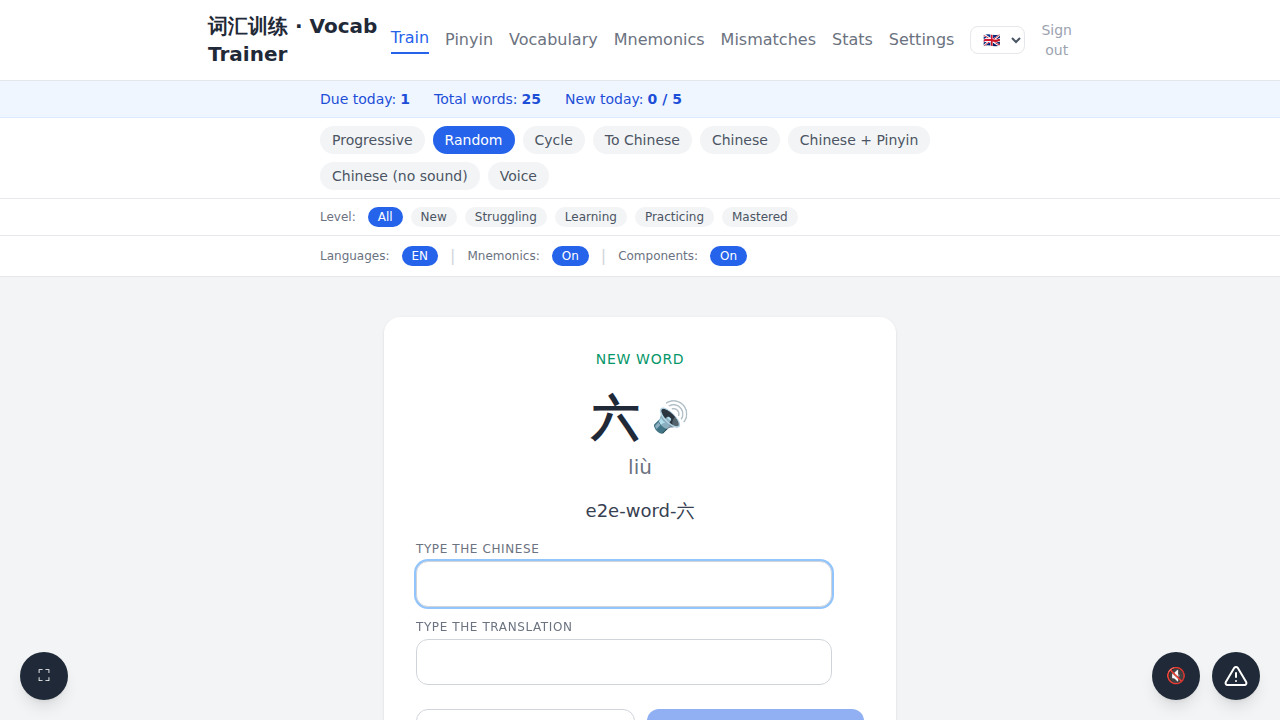
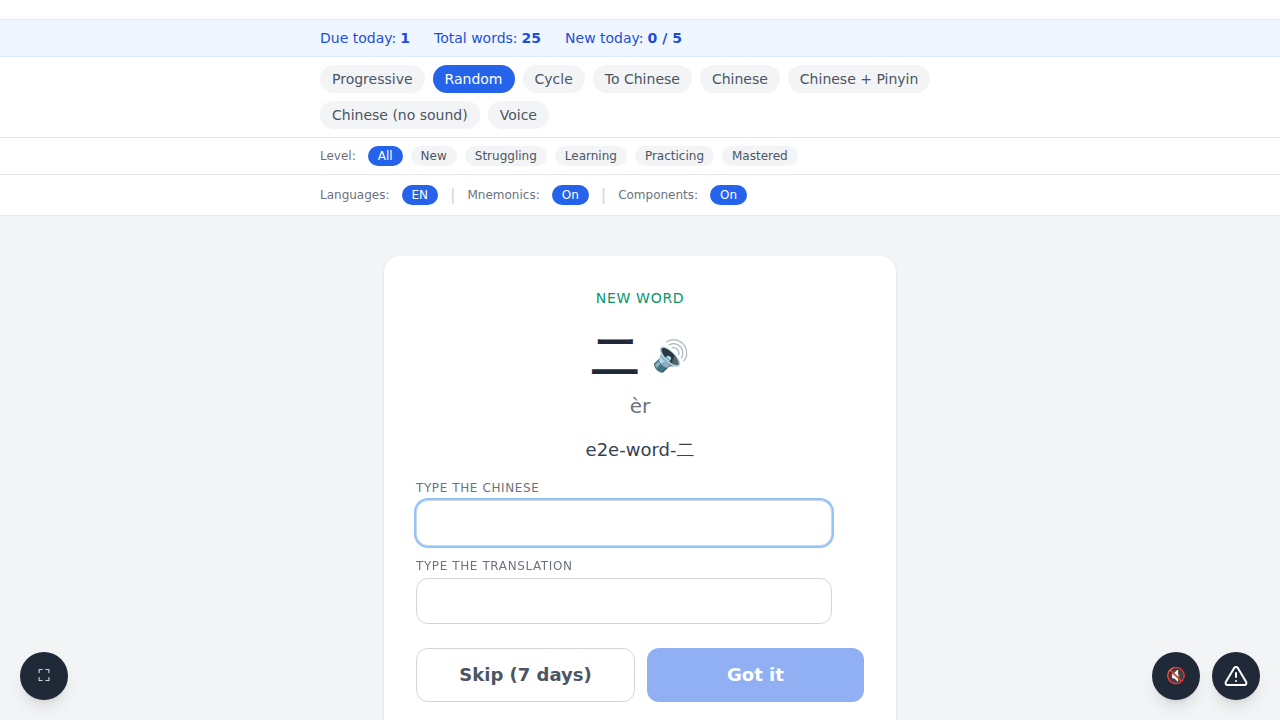
Fix new-word cooldown stalling brand-new accounts
The daily new-word cooldown (default 1 minute) blocked a fresh account
from being offered its second word right after learning the first,
with no way forward: the "learn more" advance buttons require 10+
already-seen words to ever enable, and the "Introduce new words"
button was only wired up on one of the two success-screen render
paths in train-card.js, so it stayed hidden on the path taken when
/api/quiz/next 404s.

- Skip the cooldown baseline while a user has fewer than 20 introduced
  words; it exists to pace an established learner and only stalls
  onboarding.
- Extract the success-screen advance/introduce-new-word button state
  into successAdvanceState() and use it on both render paths so they
  can't drift out of sync again.

diff --git a/e2e/onboarding.spec.js b/e2e/onboarding.spec.js
@@ -110,4 +110,74 @@ test.describe('One-button onboarding', () => {
     expect(stats.due_today).toBeLessThanOrEqual(stats.max_new_per_day);
     expect(stats.due_today).toBeLessThan(20);
   });
+
+  // Regression test for a reported bug: a brand-new account graduates its
+  // very first word, then hits a dead end — the daily-new-word cooldown
+  // (default 1 minute) blocks the next new word, the "learn more" advance
+  // buttons stay disabled (they need 10+ already-seen words to ever enable),
+  // and the "Introduce new words" button wasn't wired up on the code path
+  // that renders after a failed /api/quiz/next fetch. New learners (few
+  // introduced words) must not be cooldown-gated, and even if they were,
+  // the success screen must always offer *some* way to keep going.
+  test('a brand-new account can keep learning right after graduating its first word', async ({ page }) => {
+    await page.route('https://api.pwnedpasswords.com/**', route => {
+      route.fulfill({ status: 200, body: '' });
+    });
+    const email = `e2e-onboard-cooldown-${Date.now()}-${Math.floor(Math.random() * 1e6)}@test.local`;
+    await page.goto('/#register');
+    await page.locator('#reg-email').fill(email);
+    await page.locator('#reg-password').fill(PASSWORD);
+    await page.locator('#reg-confirm').fill(PASSWORD);
+    await page.locator('#register-btn').click();
+    await expect(page).toHaveURL('/train', { timeout: 10_000 });
+
+    const word1Res = await page.request.post('/api/words', {
+      data: { zh_text: '我', pinyin: 'wǒ', translations: { en: ['I'] }, tags: [], start_training: true },
+    });
+    expect(word1Res.ok()).toBe(true);
+    const word2Res = await page.request.post('/api/words', {
+      data: { zh_text: '你', pinyin: 'nǐ', translations: { en: ['you'] }, tags: [], start_training: false },
+    });
+    expect(word2Res.ok()).toBe(true);
+
+    await page.request.patch('/api/training-filters', {
+      data: { mode: 'zh_to_transl', langs: ['en'], bucket: '', mnemonics: true, components: true, tags: [] },
+    });
+    await page.addInitScript(() => {
+      localStorage.setItem('quizMode', 'zh_to_transl');
+      localStorage.setItem('quizLangs', JSON.stringify(['en']));
+    });
+
+    await page.goto('/train');
+
+    // Wait for whichever of the due-word card or the new-word screen the app
+    // lands on next (loadNextCard() is async after each transition).
+    async function waitForCardOrNewWord() {
+      await page.waitForFunction(() => {
+        const card = document.getElementById('card-area');
+        const nw = document.getElementById('new-word-area');
+        return (card && !card.classList.contains('hidden')) || (nw && !nw.classList.contains('hidden'));
+      }, { timeout: 12_000 });
+    }
+
+    // Answer the first (already-acknowledged) word correctly, repeating up to
+    // 3 times (as it takes to graduate it out of today's queue per
+    // session-end.spec.js) or until the second, never-seen word is offered —
+    // whichever the SM2 due-date progression reaches first.
+    await waitForCardOrNewWord();
+    for (let i = 0; i < 3 && !(await page.locator('#new-word-area').isVisible()); i++) {
+      await expect(page.locator('#card-area')).toBeVisible();
+      await page.locator('#answer-input').fill('I');
+      await page.locator('#answer-form button[type="submit"]').click();
+      await expect(page.locator('#result-icon')).toHaveText('✓ Correct!', { timeout: 8_000 });
+      await page.locator('#next-btn').click();
+      await waitForCardOrNewWord();
+    }
+
+    // The second, never-seen word must be offered — not a dead-end success
+    // screen with every button disabled.
+    await expect(page.locator('#new-word-area')).toBeVisible({ timeout: 12_000 });
+    await expect(page.locator('#new-word-zh')).toHaveText('你');
+    await captureForPR(page, 'onboarding-second-word-after-first-graduation');
+  });
 });

diff --git a/service/frontend/train-stats.test.js b/service/frontend/train-stats.test.js
@@ -45,6 +45,41 @@ describe('dueDisplayCount', () => {
   });
 });
 
+// ── Success-screen advance/introduce-new-word button state ────────────────
+// Mirrors successAdvanceState in train-stats.js. Both success-screen render
+// paths in train-card.js (the up-front due_today===0 branch, and the
+// "no words available" 404-fallback branch) must derive introduce-new-btn
+// visibility from this single function so they can't drift apart — a
+// mismatch here previously left users with no clickable button once their
+// vocabulary was too small for the 10/20/30 advance buttons to ever enable.
+
+function successAdvanceState(stats) {
+  const allAdvanceDisabled = (stats?.available_to_advance || 0) < 10;
+  const hasUnseen = (stats?.new_available || 0) > 0;
+  return { allAdvanceDisabled, showIntroduceNew: allAdvanceDisabled && hasUnseen };
+}
+
+describe('successAdvanceState', () => {
+  it('shows introduce-new when advance buttons are all disabled and a new word is available', () => {
+    const stats = { available_to_advance: 1, new_available: 5 };
+    expect(successAdvanceState(stats)).toEqual({ allAdvanceDisabled: true, showIntroduceNew: true });
+  });
+
+  it('hides introduce-new when a 10+ advance button is usable, even with new words available', () => {
+    const stats = { available_to_advance: 12, new_available: 5 };
+    expect(successAdvanceState(stats)).toEqual({ allAdvanceDisabled: false, showIntroduceNew: false });
+  });
+
+  it('hides introduce-new when advance is disabled but no new word is available', () => {
+    const stats = { available_to_advance: 0, new_available: 0 };
+    expect(successAdvanceState(stats)).toEqual({ allAdvanceDisabled: true, showIntroduceNew: false });
+  });
+
+  it('treats missing fields as zero (small brand-new account)', () => {
+    expect(successAdvanceState({})).toEqual({ allAdvanceDisabled: true, showIntroduceNew: false });
+  });
+});
+
 // ── End-of-session comeback info ──────────────────────────────────────────────
 // Mirror computeDayStreak and dueTomorrowCount in train.js.
 

diff --git a/service/frontend/train-card.js b/service/frontend/train-card.js
@@ -222,17 +222,12 @@ async function loadNextCard(trackCurrent = false) {
     if (!difficultDrill && latestStats.due_today === 0 && (latestStats.hmm_due_today || 0) === 0 && (latestStats.components_due_today || 0) === 0 && (!latestStats.new_available || skipNewWords)) {
       skipNewWords = false;
       setText('success-stats', t('stats.attemptsAndMistakes', { attempts: latestStats.today_attempts, mistakes: latestStats.today_mistakes }));
-      const allAdvanceDisabled = latestStats.available_to_advance < 10;
       document.querySelectorAll('.advance-btn').forEach(btn => {
         btn.disabled = latestStats.available_to_advance < parseInt(btn.dataset.advance);
       });
       updateAdvanceButtonsForDifficult();
-      const hasUnseen = (latestStats.new_available || 0) > 0;
-      if (allAdvanceDisabled && hasUnseen) {
-        show('introduce-new-btn');
-      } else {
-        hide('introduce-new-btn');
-      }
+      const { showIntroduceNew } = successAdvanceState(latestStats);
+      showIntroduceNew ? show('introduce-new-btn') : hide('introduce-new-btn');
       show('success-state');
       loadComebackInfo(latestStats.words_improved_today);
       return;
@@ -284,6 +279,8 @@ async function loadNextCard(trackCurrent = false) {
           btn.disabled = stats.available_to_advance < parseInt(btn.dataset.advance);
         });
         updateAdvanceButtonsForDifficult();
+        const { showIntroduceNew } = successAdvanceState(stats);
+        showIntroduceNew ? show('introduce-new-btn') : hide('introduce-new-btn');
         show('success-state');
         loadComebackInfo(stats.words_improved_today);
       }

diff --git a/service/frontend/train-stats.js b/service/frontend/train-stats.js
@@ -41,6 +41,16 @@ function updateAdvanceButtonsForDifficult() {
   if (label) label.textContent = checked ? t('success.difficultAmount') : t('success.learnMore');
 }
 
+// successAdvanceState computes the "learn more words" advance-button and
+// introduce-new-word-button state shown on the success screen, from the
+// latest /api/quiz/stats response. Shared by both success-screen render
+// paths in train-card.js so they can't drift out of sync with each other.
+function successAdvanceState(stats) {
+  const allAdvanceDisabled = (stats?.available_to_advance || 0) < 10;
+  const hasUnseen = (stats?.new_available || 0) > 0;
+  return { allAdvanceDisabled, showIntroduceNew: allAdvanceDisabled && hasUnseen };
+}
+
 // computeDayStreak returns the number of consecutive training days
 // (attempts > 0) ending at `today` (YYYY-MM-DD). `days` may be unordered.
 function computeDayStreak(days, today) {

diff --git a/service/db/words_test.go b/service/db/words_test.go
@@ -2,6 +2,7 @@ package db
 
 import (
 	"context"
+	"fmt"
 	"testing"
 	"time"
 	"vocabulary_trainer/models"
@@ -1039,7 +1040,52 @@ func TestGetNextCard_Cooldown_BlocksSecondNewWord(t *testing.T) {
 	ctx := context.Background()
 	userID := int64(2)
 
-	// Create and acknowledge first word — stamps first_seen_at = now.
+	// Seed and acknowledge enough words to be past the new-learner cooldown
+	// bypass threshold, so the cooldown baseline actually applies below.
+	seedIntroducedWords(t, s, userID, newLearnerCooldownBypassThreshold)
+
+	// Create one more unseen word.
+	if _, err := s.CreateWord(ctx, userID, models.CreateWordRequest{
+		ZhText: "火", Translations: map[string][]string{"en": {"fire"}},
+	}); err != nil {
+		t.Fatal(err)
+	}
+
+	// With a 60-minute cooldown, the new unseen word should be blocked.
+	baselines := &NewWordBaselines{CooldownMinutes: 60}
+	w, _, _, err := s.GetNextCard(ctx, userID, nil, 100, "", false, baselines, nil, true)
+	if err != nil {
+		t.Fatal(err)
+	}
+	if w != nil && w.Text == "火" {
+		t.Error("cooldown should have blocked the new unseen word 火")
+	}
+}
+
+// seedIntroducedWords creates and acknowledges n distinct zh words for userID,
+// used to push the account past newLearnerCooldownBypassThreshold in tests.
+func seedIntroducedWords(t *testing.T, s *Store, userID int64, n int) {
+	t.Helper()
+	ctx := context.Background()
+	for i := 0; i < n; i++ {
+		id, err := s.CreateWord(ctx, userID, models.CreateWordRequest{
+			ZhText: fmt.Sprintf("字%d", i), Translations: map[string][]string{"en": {fmt.Sprintf("char%d", i)}},
+		})
+		if err != nil {
+			t.Fatal(err)
+		}
+		if err := s.AcknowledgeWord(ctx, userID, id); err != nil {
+			t.Fatal(err)
+		}
+	}
+}
+
+func TestGetNextCard_Cooldown_BypassedForNewLearner(t *testing.T) {
+	s := openTestDB(t)
+	ctx := context.Background()
+	userID := int64(2)
+
+	// Only one introduced word — well under newLearnerCooldownBypassThreshold.
 	id1, err := s.CreateWord(ctx, userID, models.CreateWordRequest{
 		ZhText: "水", Translations: map[string][]string{"en": {"water"}},
 	})
@@ -1047,6 +1093,13 @@ func TestGetNextCard_Cooldown_BlocksSecondNewWord(t *testing.T) {
 		t.Fatal(err)
 	}
 	if err := s.AcknowledgeWord(ctx, userID, id1); err != nil {
+		t.Fatal(err)
+	}
+	// Push 水's due date into the future so it isn't itself due for review —
+	// otherwise GetNextCard would return it regardless of the cooldown baseline,
+	// since a due learning card always takes priority over an unseen word.
+	if _, err := s.db.ExecContext(ctx,
+		`UPDATE sm2_progress SET due_date = datetime('now', '+1 day') WHERE word_id = ?`, id1); err != nil {
 		t.Fatal(err)
 	}
 
@@ -1057,14 +1110,15 @@ func TestGetNextCard_Cooldown_BlocksSecondNewWord(t *testing.T) {
 		t.Fatal(err)
 	}
 
-	// With a 60-minute cooldown, the second unseen word should be blocked.
+	// Even with a 60-minute cooldown, a new learner (few introduced words)
+	// should not be blocked from seeing the next new word.
 	baselines := &NewWordBaselines{CooldownMinutes: 60}
 	w, _, _, err := s.GetNextCard(ctx, userID, nil, 100, "", false, baselines, nil, true)
 	if err != nil {
 		t.Fatal(err)
 	}
-	if w != nil && w.Text == "火" {
-		t.Error("cooldown should have blocked the second unseen word 火")
+	if w == nil || w.Text != "火" {
+		t.Errorf("expected cooldown to be bypassed for a new learner and return 火, got %v", w)
 	}
 }
 

diff --git a/service/db/words.go b/service/db/words.go
@@ -704,6 +704,13 @@ func tierFilter(bucket string) string {
 	return ""
 }
 
+// newLearnerCooldownBypassThreshold: below this many introduced zh words,
+// the cooldown baseline (NewWordBaselines.CooldownMinutes) is skipped. It
+// exists to pace new-word introduction for an established learner; for a
+// brand-new account it only stalls onboarding, since there is nothing yet
+// to space the new word out from.
+const newLearnerCooldownBypassThreshold = 20
+
 // NewWordBaselines controls optional gates that prevent new words from being
 // introduced. Each baseline is independently enabled; all enabled baselines
 // must pass for a new word to be shown.
@@ -795,18 +802,28 @@ func (s *Store) GetNextCard(ctx context.Context, userID int64, tags []string, ma
 			}
 		}
 		if newWordFilter == "" && baselines.CooldownMinutes > 0 {
-			var recentCount int
+			var introduced int
 			if err := s.db.QueryRowContext(ctx,
 				`SELECT COUNT(*) FROM sm2_progress p
 				 JOIN words w ON w.id = p.word_id
-				 WHERE w.language = 'zh' AND w.user_id = ?
-				   AND p.first_seen_at >= datetime('now', ?)`,
-				userID, fmt.Sprintf("-%d minutes", baselines.CooldownMinutes)).Scan(&recentCount); err != nil {
-				return nil, nil, false, fmt.Errorf("check cooldown: %w", err)
+				 WHERE w.language = 'zh' AND w.user_id = ? AND p.first_seen_at IS NOT NULL`,
+				userID).Scan(&introduced); err != nil {
+				return nil, nil, false, fmt.Errorf("count introduced words: %w", err)
 			}
-			if recentCount > 0 {
-				newWordFilter = " AND p.first_seen_at IS NOT NULL"
-				newWordsBlocked = true
+			if introduced >= newLearnerCooldownBypassThreshold {
+				var recentCount int
+				if err := s.db.QueryRowContext(ctx,
+					`SELECT COUNT(*) FROM sm2_progress p
+					 JOIN words w ON w.id = p.word_id
+					 WHERE w.language = 'zh' AND w.user_id = ?
+					   AND p.first_seen_at >= datetime('now', ?)`,
+					userID, fmt.Sprintf("-%d minutes", baselines.CooldownMinutes)).Scan(&recentCount); err != nil {
+					return nil, nil, false, fmt.Errorf("check cooldown: %w", err)
+				}
+				if recentCount > 0 {
+					newWordFilter = " AND p.first_seen_at IS NOT NULL"
+					newWordsBlocked = true
+				}
 			}
 		}
 		if newWordFilter == "" && baselines.LearningEnabled {

diff --git a/README.md b/README.md
@@ -185,6 +185,8 @@ In **Settings → Daily Learning**, each user can enable optional gates. These g
 
 In **Settings → Daily Learning**, the **Cooldown between new words** field sets the minimum time between new-word introductions. The default is 1 minute. During the cooldown window, the app serves only review cards. Set the value to **0** to disable the cooldown and allow new words back-to-back.
 
+The cooldown is automatically skipped while you have fewer than 20 introduced words — it exists to pace new-word introduction for an established vocabulary, and would otherwise just stall onboarding for a brand-new account.
+
 ### Skip button for new words
 
 By default, a **Skip** button appears on the new-word introduction screen. It lets you defer a word for 7 days. In **Settings → Daily Learning**, you can hide this button. When you hide it, you cannot skip new words, and you must review them.
